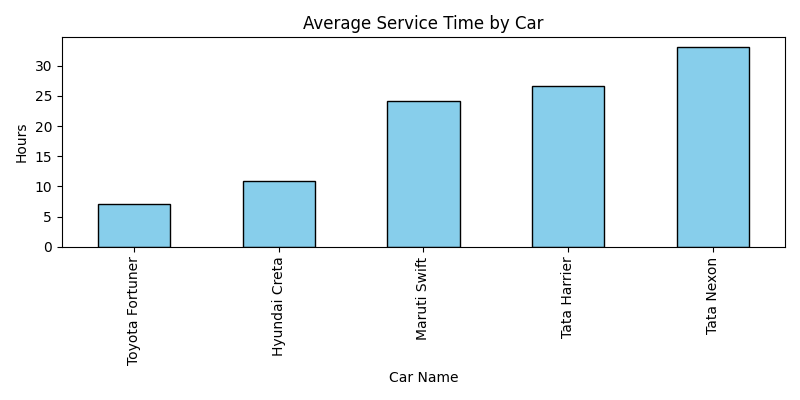
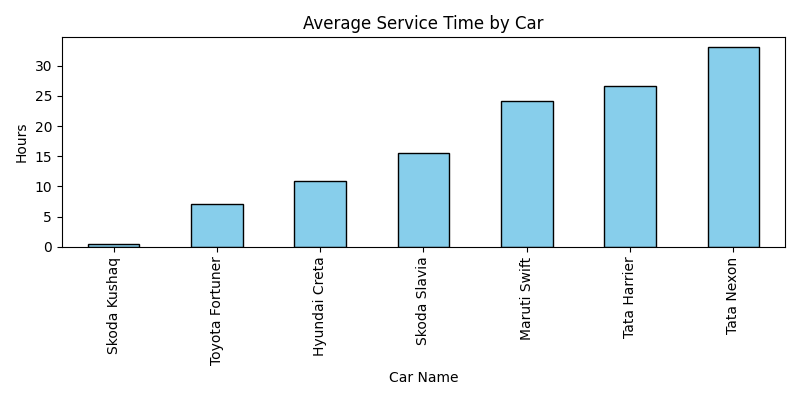
Ready for deployment

diff --git a/templates/index.html b/templates/index.html
@@ -124,7 +124,7 @@
         </div>
 
         <div class="col-md-6">
-          <label>Mileage (km)</label>
+          <label>Mileage (km in 100's)</label>
           <input type="number" name="mileage" step="100" min="0" class="form-control" required>
         </div>
 
@@ -145,7 +145,7 @@
 
         <div class="col-md-6">
           <label>Engine Capacity (cc)</label>
-          <input type="number" name="engine_capacity" step="50" min="500" class="form-control" required>
+          <input type="number" name="engine_capacity" min="500" class="form-control" required>
         </div>
 
         <div class="col-md-6">

diff --git a/README.md b/README.md
@@ -1,0 +1,195 @@
+# 🚗 Car Service Time Prediction
+
+An AI-powered Flask web application that predicts **car service completion time** based on multiple real-world factors — car model, service type, engine details, mechanic experience, and more.  
+It also provides a **visual analytics dashboard** for insights.
+
+---
+
+## 📘 Overview
+
+This project combines **Machine Learning** and **Web Development** to help workshops or service centers estimate how long a car service will take.  
+The model uses trained encoders and regression techniques to deliver realistic service time predictions.
+
+---
+
+## ⚙️ Tech Stack
+
+| Component | Technology |
+|------------|-------------|
+| **Frontend** | HTML5, CSS3, Bootstrap 5 |
+| **Backend** | Flask (Python) |
+| **Machine Learning** | Scikit-learn, Pandas, NumPy |
+| **Visualization** | Matplotlib |
+| **Storage** | CSV-based record logging |
+
+---
+
+## 🧠 Machine Learning Model
+
+The trained **Linear Regression** model is used to predict service time based on:
+- Car model and engine type  
+- Type of service (Basic, Full, Engine Repair, etc.)  
+- Vehicle condition and spare part availability  
+- Mechanic’s experience, workload, temperature, and engine wear
+
+A **minimum threshold** ensures predictions are always practical (e.g., basic service ≥ 0.5 hours).
+
+---
+
+## 📂 Folder Structure
+
+```
+carServiceTimePrediction/
+│
+├── app.py                        → Flask application
+├── model/                        → Encoders & ML model
+│   ├── car_name_encoder.pkl
+│   ├── service_type_encoder.pkl
+│   ├── engine_type_encoder.pkl
+│   └── service_model.pkl
+│
+├── static/                       → CSS & generated charts
+│   ├── style.css
+│   └── dashboard_chart.png
+│
+├── templates/                    → Frontend pages
+│   ├── index.html
+│   └── dashboard.html
+│
+├── train_service_model.ipynb     → Model training notebook
+├── predicted_records.csv         → User predictions
+├── requirements.txt              → Dependencies
+├── Procfile                      → Render deployment file
+├── .gitignore                    → Ignored files list
+└── README.md                     → Project documentation
+```
+
+---
+
+## 🚀 How to Run Locally
+
+### 1️⃣ Clone the Repository
+```bash
+git clone https://github.com/YOUR_USERNAME/carServiceTimePrediction.git
+cd carServiceTimePrediction
+```
+
+### 2️⃣ Create a Virtual Environment
+```bash
+python -m venv venv
+```
+Activate it:  
+- Windows → `venv\Scripts\activate`  
+- macOS/Linux → `source venv/bin/activate`
+
+### 3️⃣ Install Dependencies
+```bash
+pip install -r requirements.txt
+```
+
+### 4️⃣ Run the Flask App
+```bash
+python app.py
+```
+
+Then open your browser at:  
+👉 **http://127.0.0.1:5000**
+
+---
+
+## 🧾 Example Input
+
+| Field | Example |
+|--------|----------|
+| Car Name | Hyundai Creta |
+| Service Type | Full |
+| Engine Type | Diesel |
+| Condition | Good |
+| Spare Parts | Available |
+| Mechanic Experience | 5 |
+| Workload Queue | 3 |
+| Engine Capacity | 1493 |
+| Mileage | 42000 |
+| Temperature | 95°C |
+
+---
+
+## 📈 Dashboard Features
+
+- ✅ Displays **average service time**
+- ✅ Highlights **most common car**
+- ✅ Shows **recent 10 predictions**
+- ✅ Auto-generated **bar chart**
+- ✅ Interactive UI with smooth animations
+
+---
+
+## 🎨 User Interface
+
+- ✨ Clean, professional **form-style layout**
+- 🌈 Soft gradient background & glow effects
+- 📱 Fully responsive for all devices
+- 🧊 Glassmorphism-inspired cards
+- ⚡ Smooth animations and hover interactions
+
+---
+
+## 📦 Dependencies
+
+Core Python libraries used:
+
+```
+Flask
+pandas
+numpy
+scikit-learn
+matplotlib
+joblib
+gunicorn
+```
+
+Recreate them using:
+```bash
+pip install -r requirements.txt
+```
+
+---
+
+## 🌍 Deployment (Render)
+
+1. Push your project to GitHub  
+2. Add a **Procfile**:
+   ```
+   web: gunicorn app:app
+   ```
+3. Add **gunicorn** to `requirements.txt`
+4. Deploy to **https://render.com/**
+   - Build Command: `pip install -r requirements.txt`
+   - Start Command: `gunicorn app:app`
+
+Your app will be live on a public URL like:
+```
+https://carservicetime.onrender.com/
+```
+
+---
+
+## 👨💻 Author
+
+**Shubham Sanap**  
+🎓 Final Year IT Engineering Student  
+💡 Passionate about AI, ML, and Web Development  
+📍 India  
+🔗 GitHub: [https://github.com/YOUR_USERNAME](https://github.com/YOUR_USERNAME)
+
+---
+
+## 🛡 License
+
+This project is licensed under the **MIT License** — free to use, modify, and distribute.
+
+---
+
+## ⭐ Support
+
+If you found this helpful, please **star ⭐ this repo** on GitHub and share it with others learning Flask + ML.